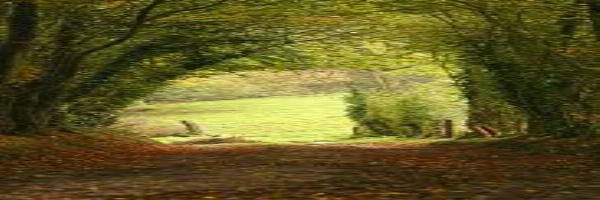
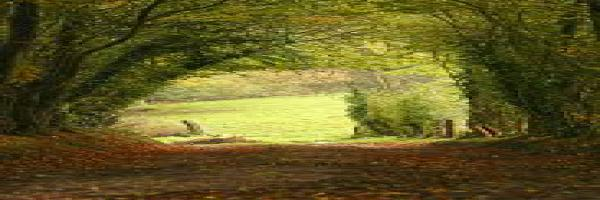
Imagescale
Zapoznamkovanie imagescale, lebo vo WS by to v ich verzii PHP 5.2
nerozpoznalo a prerobene

diff --git a/system/application/views/result.php b/system/application/views/result.php
@@ -151,7 +151,9 @@
         $newwidth=600;
         $newheight=200;
         $rsr_org = imagecreatefromjpeg($filename);
-        $rsr_scl = imagescale($rsr_org, $newwidth, $newheight,  IMG_BICUBIC_FIXED);
+        $rsr_scl = imagecreatetruecolor($newwidth, $newheight);
+        imagecopyresampled($rsr_scl, $rsr_org, 0, 0, 0, 0, $newwidth, $newheight, $width, $height);
+        //$rsr_scl = imagescale($rsr_org, $newwidth, $newheight,  IMG_BICUBIC_FIXED);          zapoznamkovane, lebo nevunguje vo WS, PHP5.2
         imagejpeg($rsr_scl, $filename);
         imagedestroy($rsr_org);
         imagedestroy($rsr_scl);        
